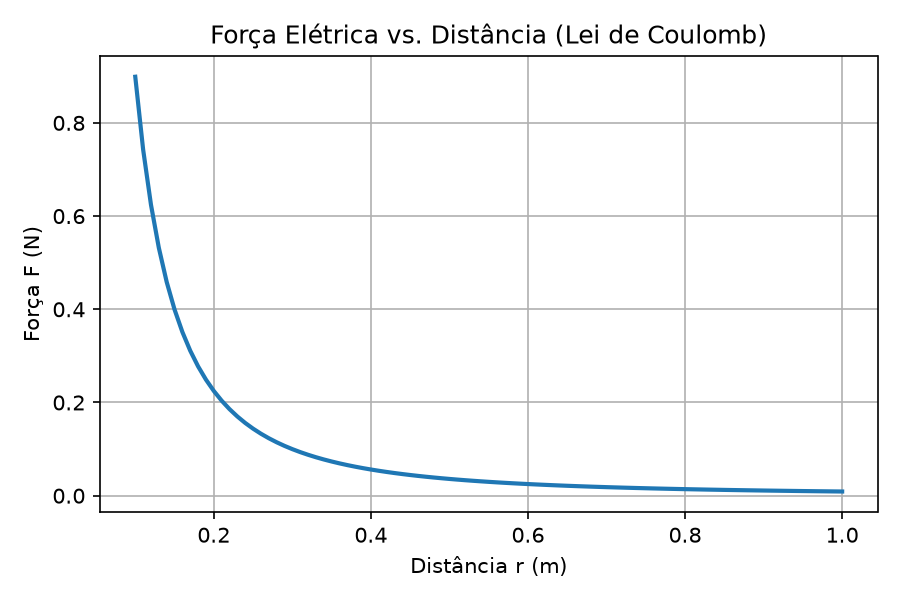
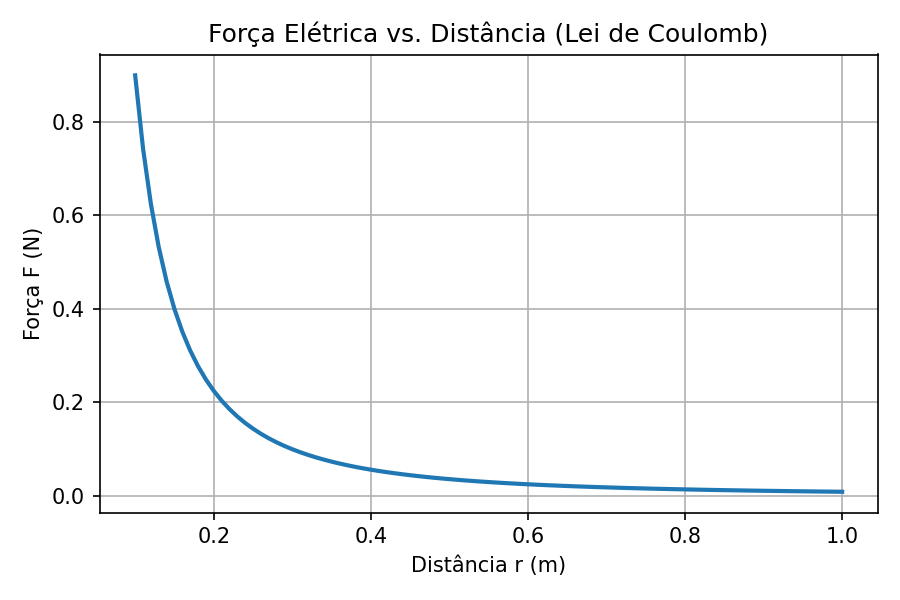
Adiciona script e grafico de Energia Potencial Eletrica U(r) e Campo Elétrico de uma carga pontual

diff --git a/grafico_forca.py b/grafico_forca.py
@@ -1,13 +1,13 @@
 import matplotlib.pyplot as plt
 
 # Constantes físicas (mesmos valores do relatório em LaTeX)
-k = 8.99e9   # N·m²/C²
-q1 = 1e-6    # 1 µC
-q2 = 1e-6    # 1 µC
+k = 8.99e9  # N·m²/C²
+q1 = 1e-6  # 1 µC
+q2 = 1e-6  # 1 µC
 
 # Distâncias de 0,10 m até 1,00 m (passo de 0,01 m)
 distancias = [0.10 + i * 0.01 for i in range(91)]
-forcas = [k * abs(q1 * q2) / (r ** 2) for r in distancias]
+forcas = [k * abs(q1 * q2) / (r**2) for r in distancias]
 
 plt.figure(figsize=(6, 4))
 plt.plot(distancias, forcas, color="tab:blue", linewidth=2)
@@ -18,4 +18,3 @@ plt.grid(True)
 plt.tight_layout()
 plt.savefig("forca_coulomb.png", dpi=150)
 print("Gráfico salvo em forca_coulomb.png!")
-

diff --git a/grafico_energia.py b/grafico_energia.py
@@ -1,0 +1,20 @@
+import matplotlib.pyplot as plt
+
+# Constantes físicas (mesmos valores do relatório em LaTeX)
+k = 8.99e9  # N·m²/C²
+q1 = 1  # 1 C
+q2 = 1  # 1 C
+
+# Distâncias de 0,10 m até 1,00 m (passo de 0,01 m)
+distancias = [0.10 + i * 0.01 for i in range(91)]
+forcas = [(k * q1 * q2) / (r) for r in distancias]
+
+plt.figure(figsize=(6, 4))
+plt.plot(distancias, forcas, color="tab:blue", linewidth=2)
+plt.title("Energia Potencial Elétrica")
+plt.xlabel("Distância r (m)")
+plt.ylabel("Força F (N)")
+plt.grid(True)
+plt.tight_layout()
+plt.savefig("energia_potencial.png", dpi=150)
+print("Gráfico salvo em energia_potencial.png!")

diff --git a/grafico_campo.py b/grafico_campo.py
@@ -1,0 +1,19 @@
+import matplotlib.pyplot as plt
+
+# Constantes físicas (mesmos valores do relatório em LaTeX)
+k = 8.99e9  # N·m²/C²
+q = 1  # 1 C
+
+# Distâncias de 0,10 m até 1,00 m (passo de 0,01 m)
+distancias = [0.10 + i * 0.01 for i in range(91)]
+forcas = [(k * q) / (r**2) for r in distancias]
+
+plt.figure(figsize=(6, 4))
+plt.plot(distancias, forcas, color="tab:blue", linewidth=2)
+plt.title("Campo Elétrico de uma carga pontual")
+plt.xlabel("Distância r (m)")
+plt.ylabel("Força F (N)")
+plt.grid(True)
+plt.tight_layout()
+plt.savefig("campo_eletrico.png", dpi=150)
+print("Gráfico salvo em campo_eletrico.png!")
